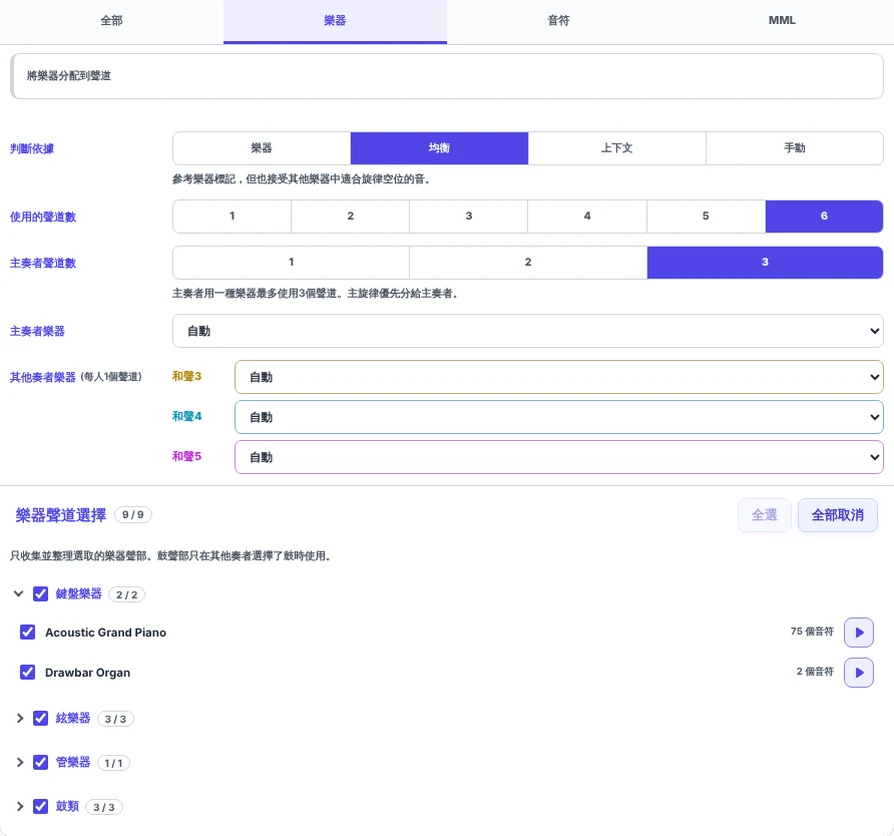
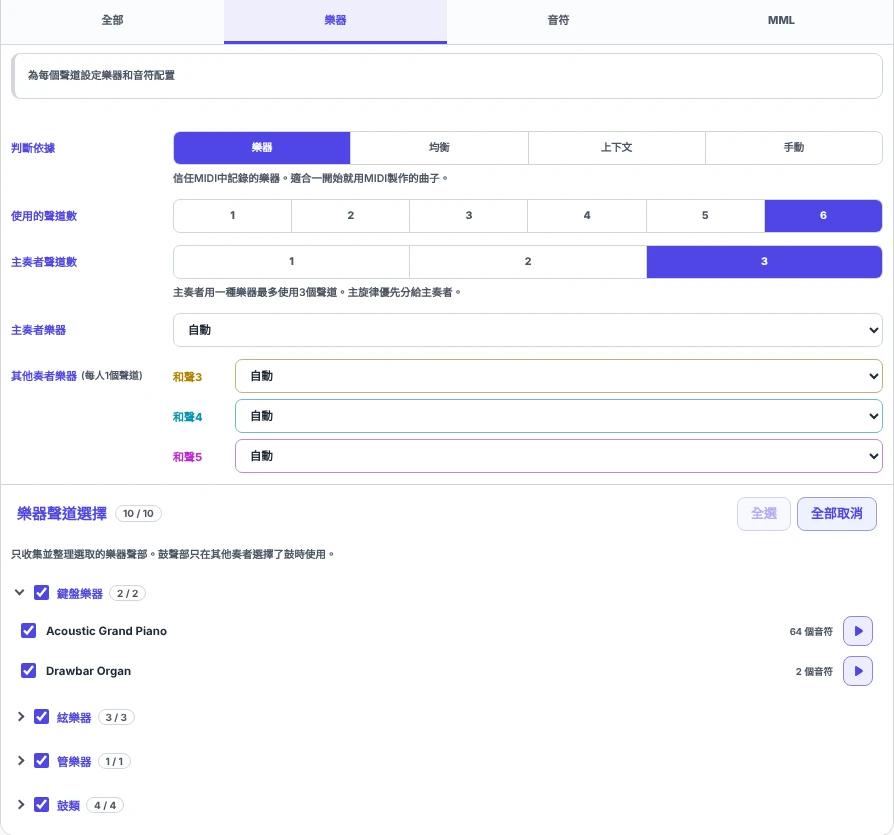
악기탭 설명 변경

diff --git a/player/index.html b/player/index.html
@@ -28,7 +28,7 @@
 <link href="https://stardust-repo.github.io/mobibard/player/" hreflang="x-default" rel="alternate"/>
 <link href="styles.css?v=6.0.0&amp;rev=20261120a9" rel="stylesheet"/><link href="../plugins/common/site-navigation.css?v=20261120-rec1" rel="stylesheet"/><link href="../plugins/common/soundbank-stack.css?v=20261120-12" rel="stylesheet"/>
 <link href="../plugins/common/supported-files-ui.css?v=5.1.0&amp;rev=20260823-final25" rel="stylesheet"/>
-<link as="script" href="js/app.js?v=6.0.0&amp;rev=20261127p9" rel="preload"/>
+<link as="script" href="js/app.js?v=6.0.0&amp;rev=20261127p10" rel="preload"/>
 <script>try{document.documentElement.dataset.theme=localStorage.getItem("mobibard.player.theme")==="dark"?"dark":"light";}catch(_){document.documentElement.dataset.theme="light";}</script>
 <script>
 (() => {
@@ -74,7 +74,7 @@
   document.documentElement.dataset.i18nPending = "true";
   const localeUrl = new URL(`locale/${files[language]}`, document.baseURI);
   if (localeUrl.protocol !== "file:") localeUrl.searchParams.set("v", "5.2.1");
-  if (localeUrl.protocol !== "file:") localeUrl.searchParams.set("rev", "20261127a6");
+  if (localeUrl.protocol !== "file:") localeUrl.searchParams.set("rev", "20261127a7");
   document.write(`<script src="${localeUrl.href.replace(/&/g, "&amp;")}"><\/script>`);
   window.setTimeout(() => document.documentElement.removeAttribute("data-i18n-pending"), 3000);
 })();
@@ -527,7 +527,7 @@
 </dialog>
 <script src="../plugins/common/site-navigation.js?v=20261106-tip"></script><script src="../plugins/common/mml-midi.js?v=1.0.0"></script>
 <script src="../plugins/common/save-menu.js?v=1.0.1"></script>
-<script src="js/app.js?v=6.0.0&amp;rev=20261127p9"></script>
+<script src="js/app.js?v=6.0.0&amp;rev=20261127p10"></script>
 <script src="js/language-manager.js?v=6.0.0&amp;rev=20261102a-nombt"></script>
 <script src="../plugins/common/utils.js?v=5.1.0&amp;rev=20261118-ncode"></script>
 <script src="../plugins/common/note-timing.js?v=1.0.0"></script>

diff --git a/player/js/app.js b/player/js/app.js
@@ -2916,7 +2916,7 @@
     );
     if (state.ui.tutorialImage) {
       state.ui.tutorialImage.hidden = false;
-      state.ui.tutorialImage.src = `assets/tutorial/${folder}/${step.image}?rev=20261119-tutorial-sound`;
+      state.ui.tutorialImage.src = `assets/tutorial/${folder}/${step.image}?rev=20261127-tutorial-arrange`;
       state.ui.tutorialImage.alt = tutorialFormat("tutorial.image_alt", [title], `${title} screen example`);
     }
     if (state.ui.tutorialImageFallback) state.ui.tutorialImageFallback.hidden = true;
@@ -2937,7 +2937,7 @@
     const next = TUTORIAL_STEPS[tutorialStepIndex + 1];
     if (next) {
       const preload = new Image();
-      preload.src = `assets/tutorial/${folder}/${next.image}?rev=20261119-tutorial-sound`;
+      preload.src = `assets/tutorial/${folder}/${next.image}?rev=20261127-tutorial-arrange`;
     }
   }
 

diff --git a/player/locale/ja.js b/player/locale/ja.js
@@ -677,7 +677,7 @@ window.__MOBIBARD_LOCALES__["ja"] = {
     "layout.idleVolume": "チャンネルごとに音量を調整・固定します",
     "layout.idleDynamics": "音量変化を自動で生成します",
     "layout.idleOctave": "チャンネルごとにオクターブを移します",
-    "layout.idleInstrument": "楽器をチャンネルに割り当てます",
+    "layout.idleInstrument": "チャンネルごとに楽器とノート配置を設定します",
     "layout.channelApplied": "チャンネルオプションを適用しました。",
     "layout.channelCancelled": "チャンネルオプションの変更を取り消しました。",
     "layout.instrumentCancelled": "楽器設定の変更を取り消しました。",

diff --git a/player/locale/ko.js b/player/locale/ko.js
@@ -677,7 +677,7 @@ window.__MOBIBARD_LOCALES__["ko"] = {
     "layout.idleVolume": "채널별 볼륨을 올리거나 고정해요",
     "layout.idleDynamics": "음 세기 변화를 자동으로 만들어요",
     "layout.idleOctave": "채널별 옥타브를 옮겨요",
-    "layout.idleInstrument": "악기를 채널에 배정해요",
+    "layout.idleInstrument": "채널마다 악기와 노트 배치를 정해요",
     "layout.channelApplied": "채널 옵션을 적용했습니다.",
     "layout.channelCancelled": "채널 옵션 변경을 취소했습니다.",
     "layout.instrumentCancelled": "악기 설정 변경을 취소했습니다.",

diff --git a/player/locale/en.js b/player/locale/en.js
@@ -677,7 +677,7 @@ window.__MOBIBARD_LOCALES__["en"] = {
     "layout.idleVolume": "Raise, lower or fix each channel's volume",
     "layout.idleDynamics": "Generate volume changes automatically",
     "layout.idleOctave": "Shift each channel's octave",
-    "layout.idleInstrument": "Assign instruments to channels",
+    "layout.idleInstrument": "Set instruments and note layout for each channel",
     "layout.channelApplied": "Channel options were applied.",
     "layout.channelCancelled": "Channel option changes were cancelled.",
     "layout.copyToast": "MML copied.",

diff --git a/player/locale/zh-CN.js b/player/locale/zh-CN.js
@@ -677,7 +677,7 @@ window.__MOBIBARD_LOCALES__["zh-CN"] = {
     "layout.idleVolume": "按声道调整或固定音量",
     "layout.idleDynamics": "自动生成音量变化",
     "layout.idleOctave": "按声道移动八度",
-    "layout.idleInstrument": "将乐器分配到声道",
+    "layout.idleInstrument": "为每个声道设置乐器和音符布局",
     "layout.channelApplied": "已应用声道选项。",
     "layout.channelCancelled": "已取消声道选项的更改。",
     "layout.instrumentCancelled": "已取消乐器设置的更改。",

diff --git a/player/locale/zh-TW.js b/player/locale/zh-TW.js
@@ -677,7 +677,7 @@ window.__MOBIBARD_LOCALES__["zh-TW"] = {
     "layout.idleVolume": "依聲道調整或固定音量",
     "layout.idleDynamics": "自動產生音量變化",
     "layout.idleOctave": "依聲道移動八度",
-    "layout.idleInstrument": "將樂器分配到聲道",
+    "layout.idleInstrument": "為每個聲道設定樂器和音符配置",
     "layout.channelApplied": "已套用聲道選項。",
     "layout.channelCancelled": "已取消聲道選項的變更。",
     "layout.instrumentCancelled": "已取消樂器設定的變更。",
